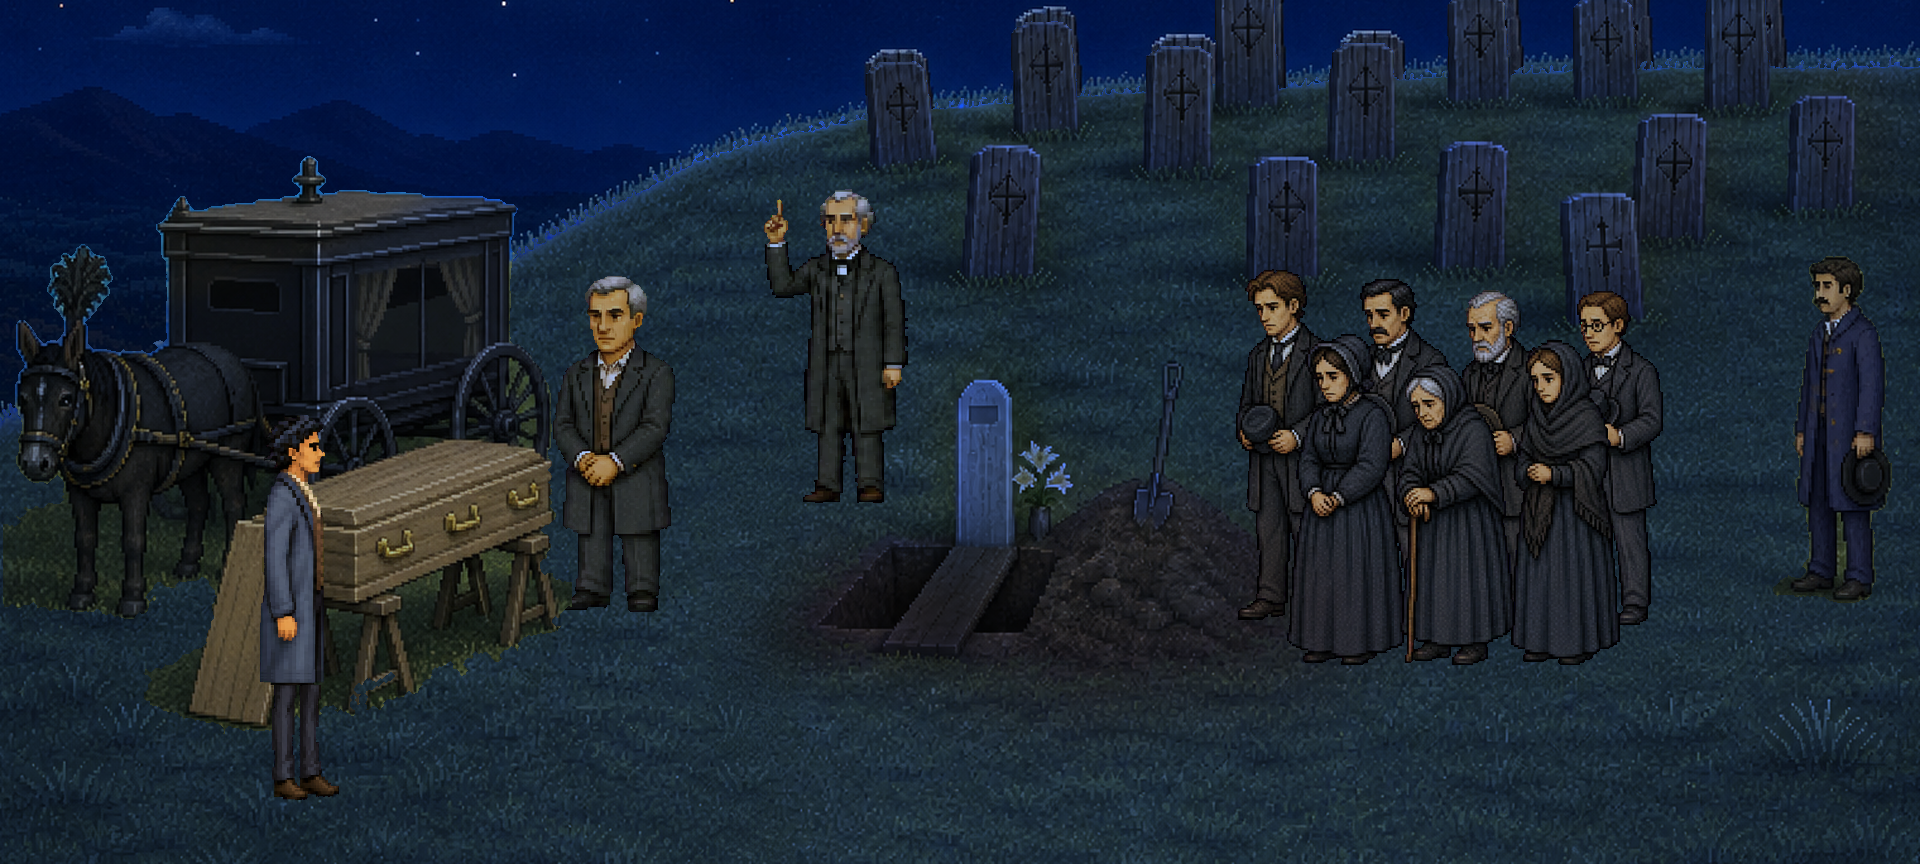
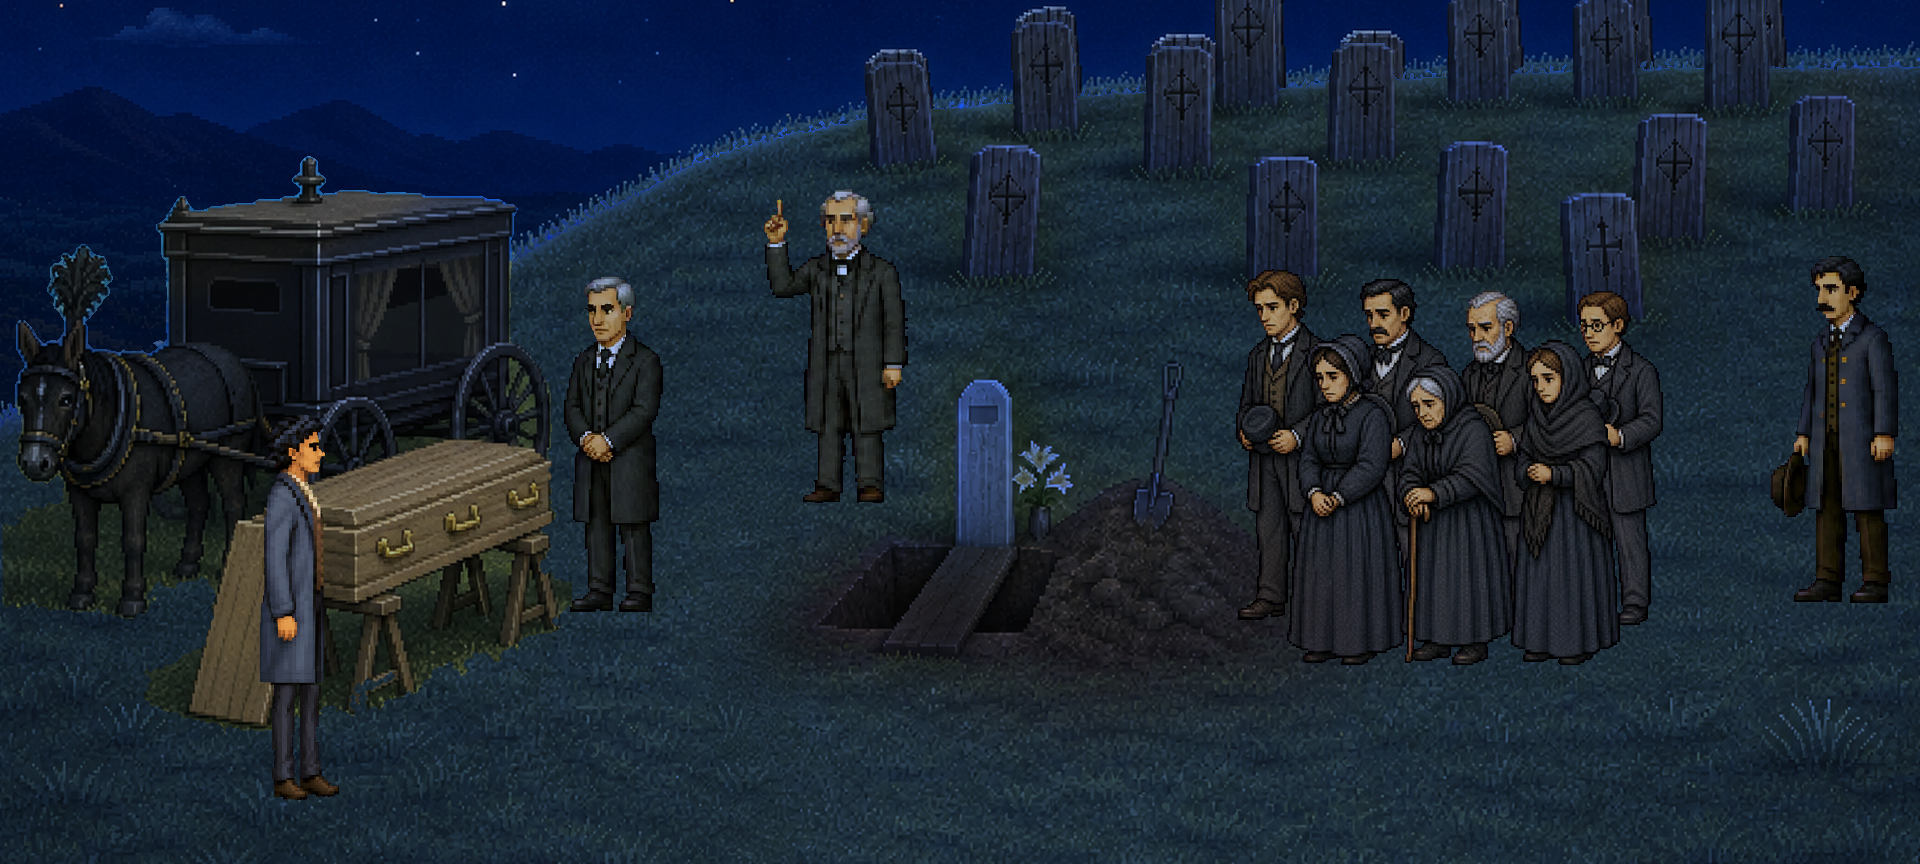
The funeral's undertaker and Hob at true proportions, cleanly cut; Hob's walk no longer solid blue
Tyler: "The old man is super weirdly short and stout. The man in the blue
jacket is a bad cutout. PLEASE catch things like this." Cast-unify 31 redrew
both at Thad's height and lean build, relit into the night. Found on the way:
Hob's exit walk had been relit in place on every run of room31-night.py until
it was solid blue, and shipped; the script no longer touches it.

Lessons carried:
- tests/sheet-colour.test.mjs: no figure sheet may lose its colour (fails on
  the blue walk, 100%).
- tools/art/figure-audit-sheets.mjs and doc 55 section 8: every figure drawn
  beside Thad in its room and looked at before Tyler sees it
  (renders/figure-audit/).

Claude-Session: https://claude.ai/code/session_01FXbCupzwLJAEr7fqqWYP8A

Changed region(s): [[0.9062, 0.2812, 1.0, 0.7188], [0.2812, 0.3125, 0.375, 0.7188]]

diff --git a/tools/art/room31-night.py b/tools/art/room31-night.py
@@ -87,10 +87,12 @@ for name, fig in cast['figures'].items():
 for name, prop in cast['props'].items():
     relight(os.path.join(ROOT, prop['sheet']), [prop['frame']], prop['x'], prop['y'])
     done.append(prop['sheet'])
-walk = json.load(open(WALK))
-hob = cast['figures']['hob']
-relight(os.path.join(ROOT, 'art/actors/room-31-hob-walk.png'), walk['frames'], hob['x'] + 60, hob['y'])
-done.append('art/actors/room-31-hob-walk.png')
+# NOT THE WALK. Every sheet above is rewritten in day colours by room31-cast.py
+# before this runs; the walk was not, so each run relit the previous run's
+# output and it compounded to solid blue (0,0,136), shipped (found 2026-11-06).
+# Hob's funeral walk is now its own sheet, relit once from its day drawing by
+# tools/art/room31-relight-one.py; a sheet this script relights must be
+# rewritten in day colours on every run.
 with open(f'{out_dir}/night.json', 'w') as f:
     json.dump({'day': os.path.relpath(DAY, ROOT), 'night': os.path.relpath(NIGHT, ROOT), 'sigma': SIGMA,
                'skyPixels': int(day_sky.sum()), 'relit': done,

diff --git a/docs/55-full-game-build.md b/docs/55-full-game-build.md
@@ -212,4 +212,5 @@ Every row here shipped past a green suite and was found by Tyler playing, by a r
 - **Furniture on a floor seen at an angle is painted INTO the room, never drawn flat-on and laid over it.** The duel's judges' table was drawn frontally on magenta and laid on a porch seen from the left: its legs stood past the porch's front edge and the judges' boots hung in the air (Tyler: "Just a random table random placed on the porch… it's hanging off edges"). Anything that stands on a raked floor -- a table with people at it, a bench, a cart -- is an edit of the room's own plate that adds it, then cut by subtraction (`tools/art/room02-porch-judges.py`); its movement fills what a figure uncovers with the plate, not with his own old pixels (which drew two faces).
 - **A crowd scene is planned as one picture, then built from clean figures standing on surfaces.** Duel Three failed three times as a dozen figures adjusted one at a time (Tyler: "all the characters in this scene are still a mess"). What worked: paint the gathering into a local crop of the plate once to see where everyone stands and how big (an edit of the whole street re-lays the buildings and cannot be subtracted; dark coats on a dark wall cannot be cut out of an edit, even by GrabCut), then draw the people on magenta and stand each one where the picture put him -- feet on the street at the depth curve, or on a porch's boards clear of its edge, its corners and its posts. Furniture is dropped unless a line or a puzzle needs it.
 - **The generator does not reliably turn a figure the way the brief asks.** Eleven townspeople briefed half right, half left all came back looking left. Measure which way each face turns (`tests/faces.test.mjs`'s measure) and mirror the ones facing away, before placing them.
+- **Before showing Tyler anything, look at every figure beside Thad in its room.** `node --experimental-strip-types tools/art/figure-audit-sheets.mjs <dir>` draws every placed figure on its plate as the engine draws it, with Thad at the same depth, six to a page (`renders/figure-audit/`). Tyler found the funeral's undertaker "super weirdly short and stout" and Hob "a bad cutout" -- both visible at a glance on those pages, neither caught by a test. Proportions (a figure as tall and as lean as Thad unless the cast sheet says otherwise) and a clean edge (no ground from the picture it was cut from) are judged there, by eye, every time. A brief that asks for someone "a little shorter than the hero" gets a squat man: ask for Thad's height and long legs.
 - **Art needs the "OpenAI" environment.** A session without the key writes a brief (`reference/room-NN/<subject>/brief.md`, a verbatim prompt, a reference image, a generator, the cap in `art/staging/caps.json`) and hands Tyler a paste-ready prompt for a session in that environment. The barrel and Deke's walk were made this way.

diff --git a/docs/00-errata.md b/docs/00-errata.md
@@ -2787,3 +2787,5 @@ What Tyler still decides: acceptance of the art (errata 72 E, at the full playth
 **V · Everyone looks toward the duel (Tyler, 2026-11-06: "As long as everyone is supposed to be looking where they're looking").** Measured, the generator had drawn all eleven townspeople looking left whatever the brief said, so the left crowd stared away from the duel; and the bearded judge looked away from both duellists. The left crowd's people are mirrored by `tools/art/room02-duel-town.py`, which now measures each face and refuses a crowd with anyone facing away; the bearded judge's sheet is mirrored. A figure that must look somewhere declares `faces`, held by `tests/faces.test.mjs` (fails on the unmirrored judge, -7.0).
 
 **W · The mourners (2026-11-06).** The last of the old drawings, and they faced the camera like a photograph. Cast-unify 30 drew seven distinct mourners (doc 10's seven; every man with his hat in his hands, doc 10's THE HATS), each measured and turned to look toward the grave, standing at his own spot on the hill at its depth curve inside THE MOURNERS hotspot, and relit into the funeral's night (`tools/art/room31-mourners.py`, which refuses a mourner looking away). Every recurring character and both crowds are now drawn from the locked cast or, like Thad, Hob, Deke and the driver, kept. Thirty of thirty-five operations used.
+
+**X · The funeral's undertaker and Hob (Tyler, 2026-11-06: "The old man is super weirdly short and stout. The man in the blue jacket is a bad cutout. PLEASE catch things like this.").** Cast-unify 31 redrew both at Thad's height and lean proportions -- Hob from his own art, hat in hand, standing and on a four-frame walk off the hill; the undertaker in his black coat -- relit into the night. Hob's old cut from the composition master kept hillside between his legs. Found on the way: his exit walk had been relit in place by every run of `tools/art/room31-night.py` until it was solid blue (0,0,136), and shipped; the script no longer touches it, and `tests/sheet-colour.test.mjs` fails any figure sheet that has lost its colour. Every placed figure was then rendered beside Thad in its room (`renders/figure-audit/`) and looked at; nothing else was out of proportion or badly cut. Thirty-one of thirty-five operations used.
